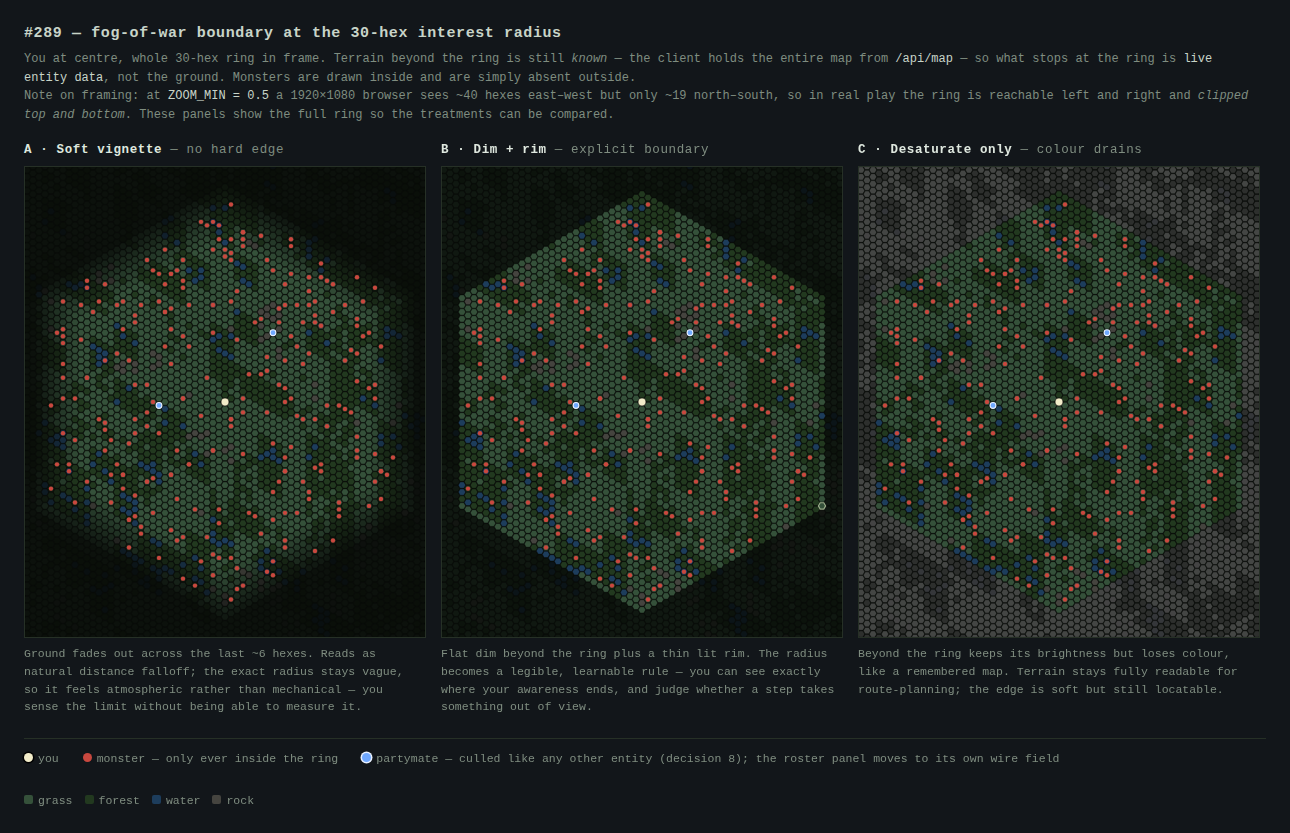
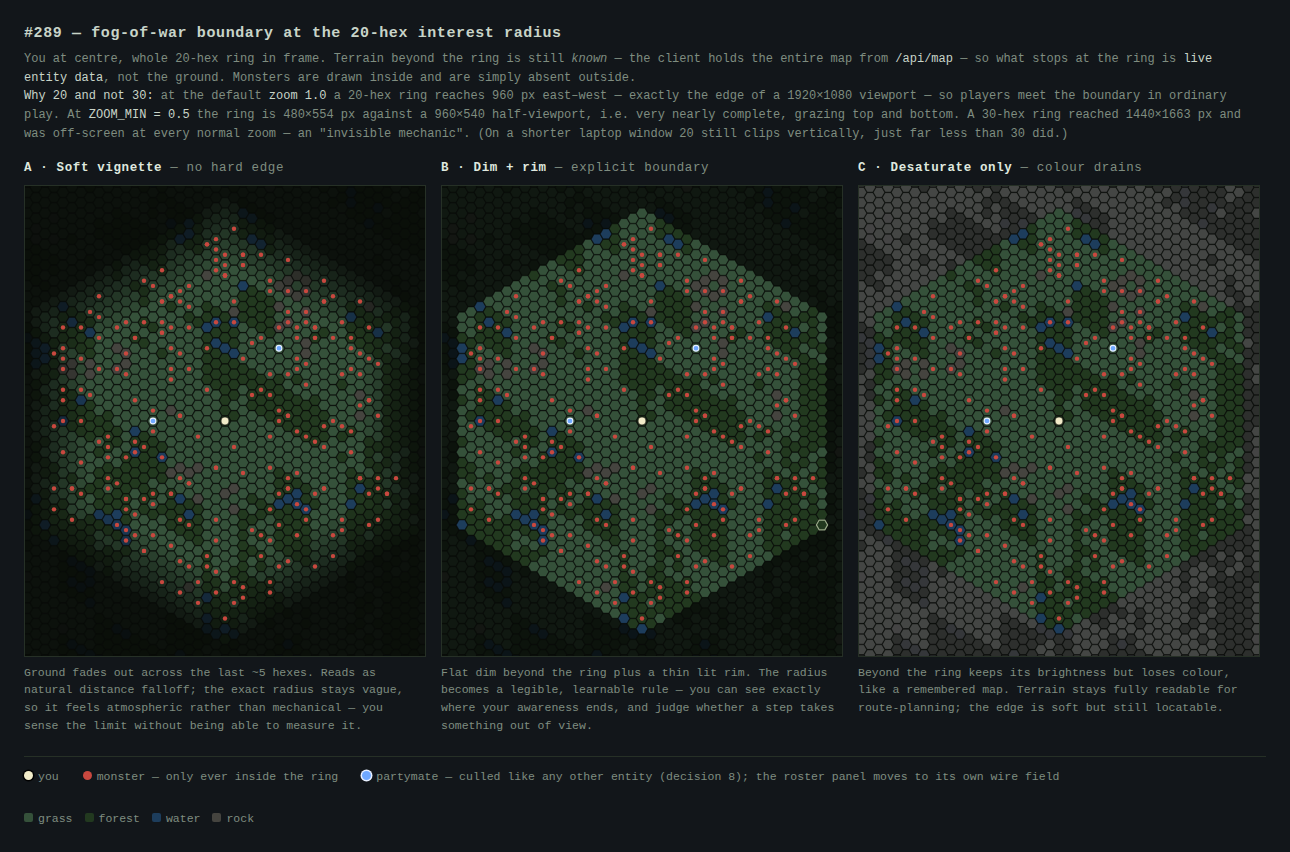
docs(mockup): retune the fog boundary to a 20-hex radius (#289)
The maintainer moved the interest radius 30 -> 20. The geometry is the
argument, not the mood:

  radius 20 @ zoom 1.0 (default)  ring reaches 960 px E-W  = exactly the edge
                                  of a 1920x1080 viewport -> players meet the
                                  boundary in ordinary play
  radius 20 @ zoom 0.5 (ZOOM_MIN) ring is 480 x 554 px vs a 960 x 540
                                  half-viewport -> very nearly complete
  radius 30 @ zoom 1.0            1440 x 1663 px -> off-screen at every
                                  normal zoom; an invisible "mechanic"

So 20 is roughly the largest radius whose ring is a shape a player can
actually see (19 is the exact vertical fit at ZOOM_MIN; on a laptop-height
window 20 still clips, just far less than 30 did).

Schematic hex size 4 -> 6 now that the smaller ring leaves room, so the three
treatments read at a glance. Same filename, so the issue embed keeps
resolving.

diff --git a/docs/mockups/2026-07-24-fog-of-war-boundary.html b/docs/mockups/2026-07-24-fog-of-war-boundary.html
@@ -25,22 +25,24 @@
   .dot { display: inline-block; width: 9px; height: 9px; border-radius: 50%; vertical-align: 0px; margin-right: 5px; }
 </style>
 
-<h1>#289 — fog-of-war boundary at the 30-hex interest radius</h1>
+<h1>#289 — fog-of-war boundary at the 20-hex interest radius</h1>
 <p class="sub">
-  You at centre, whole 30-hex ring in frame. Terrain beyond the ring is still <em>known</em> — the client holds the entire
+  You at centre, whole 20-hex ring in frame. Terrain beyond the ring is still <em>known</em> — the client holds the entire
   map from <span class="k">/api/map</span> — so what stops at the ring is <span class="k">live entity data</span>, not the
   ground. Monsters are drawn inside and are simply absent outside.
   <br>
-  Note on framing: at <span class="k">ZOOM_MIN = 0.5</span> a 1920&times;1080 browser sees ~40 hexes east–west but only
-  ~19 north–south, so in real play the ring is reachable left and right and <em>clipped top and bottom</em>. These panels
-  show the full ring so the treatments can be compared.
+  <span class="k">Why 20 and not 30:</span> at the default <span class="k">zoom 1.0</span> a 20-hex ring reaches 960&nbsp;px
+  east–west — exactly the edge of a 1920&times;1080 viewport — so players meet the boundary in ordinary play. At
+  <span class="k">ZOOM_MIN = 0.5</span> the ring is 480&times;554&nbsp;px against a 960&times;540 half-viewport, i.e. very
+  nearly complete, grazing top and bottom. A 30-hex ring reached 1440&times;1663&nbsp;px and was off-screen at every normal
+  zoom — an "invisible mechanic". (On a shorter laptop window 20 still clips vertically, just far less than 30 did.)
 </p>
 
 <div class="row">
   <div class="panel">
     <h2>A · Soft vignette <span>— no hard edge</span></h2>
     <canvas id="a" width="400" height="470"></canvas>
-    <p class="cap">Ground fades out across the last ~6 hexes. Reads as natural distance falloff; the exact radius stays vague, so it feels atmospheric rather than mechanical — you sense the limit without being able to measure it.</p>
+    <p class="cap">Ground fades out across the last ~5 hexes. Reads as natural distance falloff; the exact radius stays vague, so it feels atmospheric rather than mechanical — you sense the limit without being able to measure it.</p>
   </div>
   <div class="panel">
     <h2>B · Dim + rim <span>— explicit boundary</span></h2>
@@ -62,8 +64,8 @@
 </div>
 
 <script>
-const S = 4;      // schematic hex size — sized so the whole R=30 ring fits the panel
-const R = 30;
+const S = 6;      // schematic hex size — sized so the whole R=20 ring fits the panel
+const R = 20;
 const SQ3 = Math.sqrt(3);
 const COLORS = { grass: [0x35,0x51,0x3a], forest: [0x22,0x39,0x1f], water: [0x1d,0x3d,0x5c], rock: [0x45,0x44,0x3f] };
 
@@ -99,12 +101,12 @@ function hexPath(ctx, cx, cy, size) {
 // "nothing is drawn outside" point is visible rather than assumed.
 const ALL = [];
 for (let i = 0; i < 900; i++) {
-  const q = Math.round((hash(i, 7) - 0.5) * 96);
-  const r = Math.round((hash(i, 19) - 0.5) * 96);
+  const q = Math.round((hash(i, 7) - 0.5) * 64);
+  const r = Math.round((hash(i, 19) - 0.5) * 64);
   const d = hexDist(q, r);
-  if (d > 2 && d < 46) ALL.push({ q, r, d });
+  if (d > 2 && d < 32) ALL.push({ q, r, d });
 }
-const PARTY = [{ q: -11, r: 6 }, { q: 8, r: -14 }];
+const PARTY = [{ q: -8, r: 4 }, { q: 6, r: -10 }];
 
 function draw(id, mode) {
   const cv = document.getElementById(id), ctx = cv.getContext("2d");
@@ -112,16 +114,16 @@ function draw(id, mode) {
   ctx.fillStyle = "#090c09";
   ctx.fillRect(0, 0, cv.width, cv.height);
 
-  for (let q = -60; q <= 60; q++) {
-    for (let r = -60; r <= 60; r++) {
+  for (let q = -40; q <= 40; q++) {
+    for (let r = -40; r <= 40; r++) {
       const d = hexDist(q, r);
-      if (d > 60) continue;
+      if (d > 40) continue;
       const p = toPixel(q, r), cx = ox + p.x, cy = oy + p.y;
       if (cx < -6 || cx > cv.width + 6 || cy < -6 || cy > cv.height + 6) continue;
 
       let rgb = COLORS[terrainAt(q, r)].slice();
       if (mode === "vignette") {
-        rgb = mix(rgb, [7, 10, 7], Math.max(0, Math.min(1, (d - (R - 6)) / 8)) * 0.9);
+        rgb = mix(rgb, [7, 10, 7], Math.max(0, Math.min(1, (d - (R - 5)) / 7)) * 0.9);
       } else if (mode === "rim" && d > R) {
         rgb = mix(rgb, [7, 10, 7], 0.8);
       } else if (mode === "desat" && d > R) {
